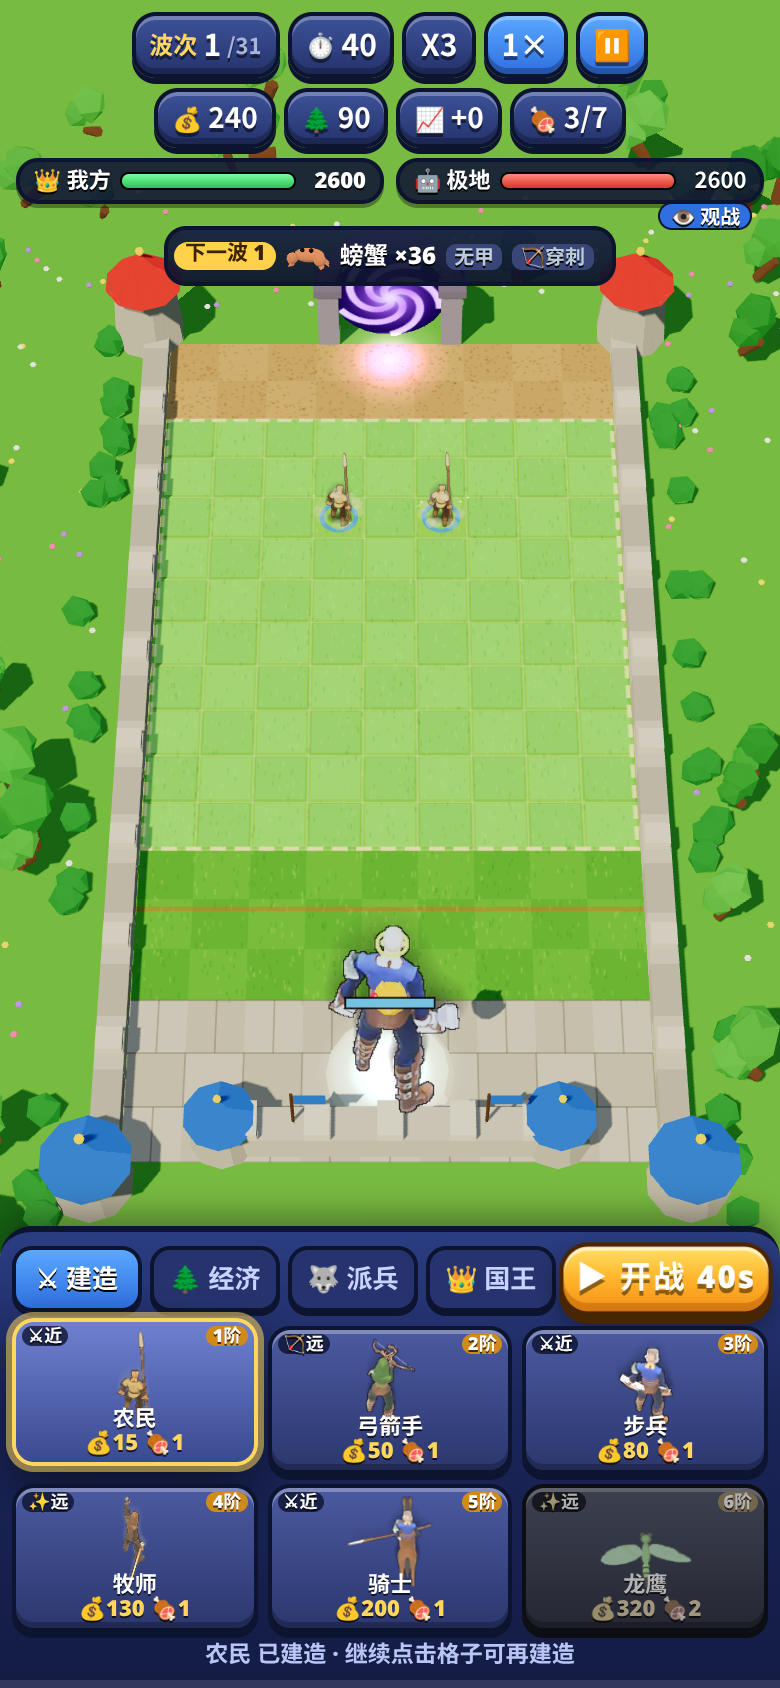
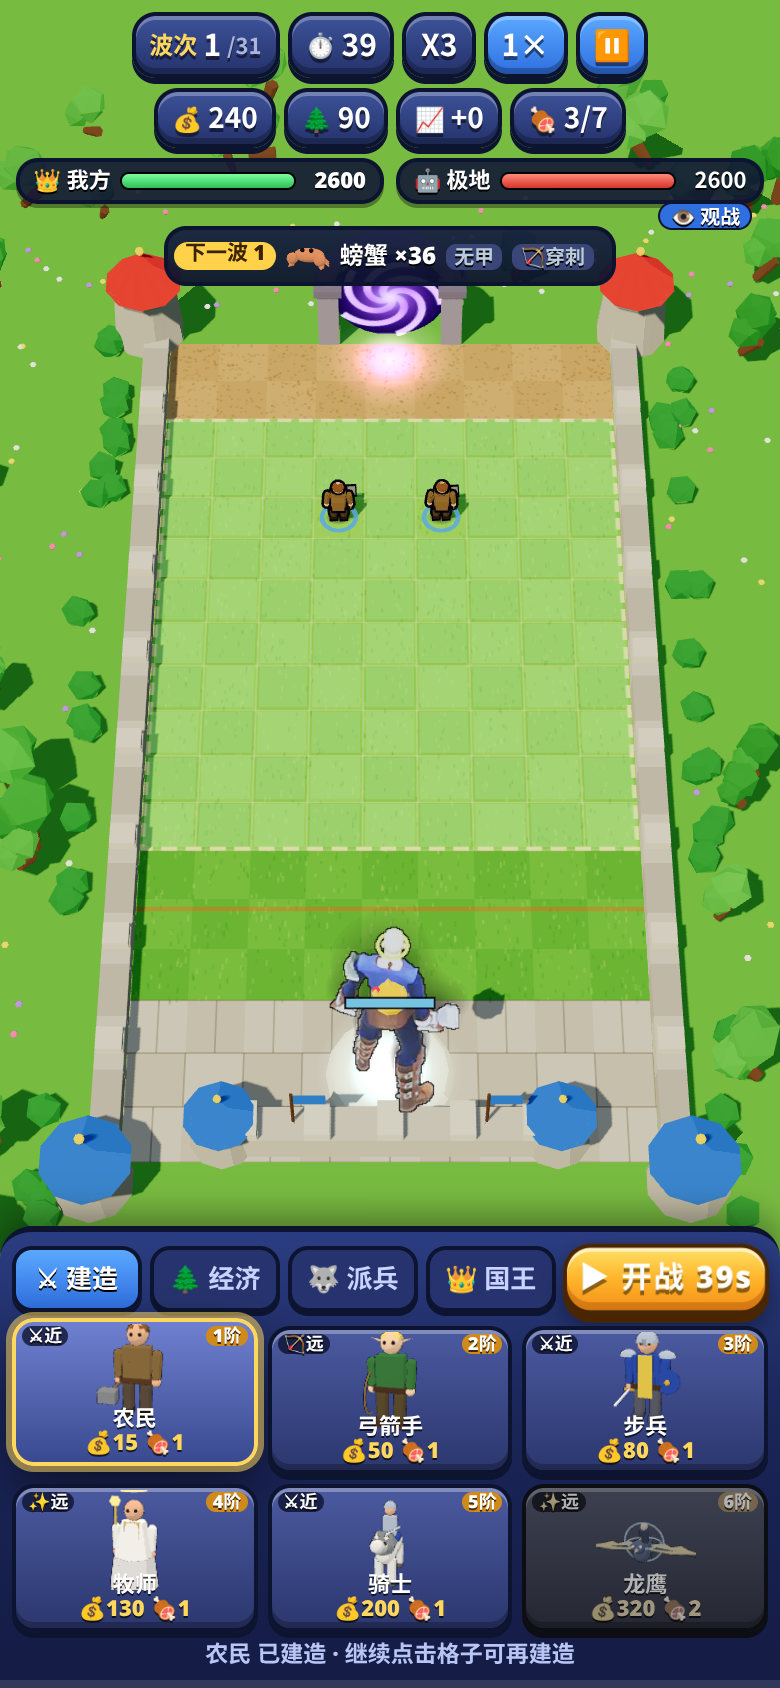
Model remake: Paladin (peasant, militia, archers, footman, guard, priests, knights, dragonhawk rider, gryphon rider)

diff --git a/toonrecipes.js b/toonrecipes.js
@@ -148,3 +148,16 @@ R('h01L',{k:1.3,h:1.2,bw:1.55,torso:'rock',head:'default',headS:0.9,skin:0x9a8a6
 R('h0AE',{k:0.88,h:0.85,bw:1.05,torso:'robe',head:'beast',headC:0x9a6a4a,skin:0x9a6a4a,torsoC:0x6a5a8a,eye:0xffd02a,helm:'cap',capC:0xe8d8a0,weapon:'staff',wood:0x6a4a2a,glow:0xffa02a,atk:'cast',extras:['tail:0x9a6a4a','candle','orbit:0xffb04a']});
 R('h0AL',{k:1.05,h:1.08,bw:1.45,torso:'brute',head:'beast',headC:0xb8785a,skin:0xb8785a,torsoC:0x6a4a8a,legC:0x4a3a2a,sleeve:0xb8785a,handC:0xa8684a,eye:0xffe04a,weapon:'hammer',wood:0x6a4a2a,wMetal:0x8a8a90,off:'orb',glow:0xffd04a,atk:'slam',extras:['tusks','goblinrider','tanks:0xffd04a','belly:0xc8886a']});
 R('h0AO',{k:1.02,h:1.15,bw:1.5,torso:'brute',head:'robot',legs:'robot',arms:'robot',metal:0x7a7a84,torsoC:0x6a6a74,eye:0xff8a2a,core:0xff8a2a,weapon:'glowfist',off:'glowfist',glow:0xff7a2a,pads:true,padC:0x5a5a64,atk:'slam',extras:['chest:0xff7a2a','jets','spikes:0x9a9aa4']});
+// ===================== 圣骑士 Paladin：人类王国（农民→民兵、弓手、步兵、牧师、骑士、龙鹰、狮鹫骑士） =====================
+R('h09L',{k:0.88,h:0.95,torso:'default',head:'default',skin:0xf0b890,hair:0x8a5a2a,torsoC:0x8a6a3a,legC:0x5a4a3a,bootC:0x3a2a1a,beltC:0x5a3a20,weapon:'hammer',wood:0x8a6a3a,wMetal:0x8a8a8a,atk:'swing',extras:['backpack:0x8a6a3a']});
+R('h09H',{k:1.0,h:1.0,torso:'default',head:'default',helm:'helm',metal:0x9a9aa4,skin:0xf0b890,torsoC:0x3a5aa8,legC:0x5a4a3a,bootC:0x3a2a1a,weapon:'axe',wMetal:0xb0b0b8,off:'shield',shieldC:0x3a5aa8,atk:'swing',extras:['tabard:0xe8e0c8']});
+R('h09W',{k:0.95,h:1.0,torso:'default',head:'default',skin:0xf8d0a8,hair:0xf0d870,torsoC:0x3a7a3a,legC:0x5a4a2a,bootC:0x4a3020,weapon:'bow',wood:0x8a6a3a,atk:'shoot',extras:['ears','quiver']});
+R('h09M',{k:1.12,h:1.05,torso:'default',head:'default',helm:'hood',hoodC:0x3a5a2a,skin:0xf8d0a8,torsoC:0x2a3a2a,legC:0x2a2a2a,bootC:0x1a1a1a,weapon:'bow',wood:0x5a3a6a,glow:0x9ad8ff,pads:true,padC:0xc8b060,atk:'shoot',extras:['ears','quiver','cape:0x2a4a2a','orbit:0x9ad8ff']});
+R('h09N',{k:0.98,h:1.0,torso:'default',head:'default',helm:'helm',metal:0xb8c0cc,skin:0xf0b890,torsoC:0x2a4aa8,legC:0x5a5a64,bootC:0x4a4a54,weapon:'sword',wMetal:0xe0e6f0,off:'shield',shieldC:0x2a4aa8,pads:true,padC:0xb8c0cc,atk:'swing',extras:['tabard:0xe8c84a']});
+R('h09O',{k:1.15,h:1.1,bw:1.15,torso:'default',head:'default',helm:'greathelm',metal:0xd8dde8,accent:0xffd04a,skin:0xf0b890,torsoC:0x2a4aa8,legC:0x8a8a94,bootC:0x6a6a74,weapon:'sword',wMetal:0xffffff,off:'towershield',shieldC:0x2a4aa8,pads:true,padC:0xffd04a,atk:'swing',extras:['plate:0xd8dde8','cape:0x2a3a8a','tabard:0xffd04a']});
+R('h09R',{k:1.0,h:1.02,torso:'robe',head:'default',helm:'hood',hoodC:0xe8e0d0,skin:0xf0b890,torsoC:0xf4f0e8,weapon:'staff',wood:0xd8b860,glow:0xfff0a0,atk:'cast',extras:['tabard:0xd8b860','halo:0xfff0a0']});
+R('h09S',{k:1.15,h:1.08,torso:'robe',head:'default',helm:'wizard',capC:0x3a2a8a,skin:0xf0b890,torsoC:0x4a3aa8,beard:0xf0f0f0,weapon:'staff',off:'book',bookC:0x8a2a2a,wood:0xd8b860,glow:0xfff0a0,atk:'cast',extras:['beard:0xf8f8f8','tabard:0xffd04a','aura:0xfff0a0','orbit:0xffe08a']});
+R('h09T',{k:1.1,plan:'quad',skin:0xe8e4dc,skin2:0xc8c4bc,headType:'horse',eye:0x2a2a2a,pawC:0x5a5a5a,legLen:0.36,bodyLen:0.66,mane:true,maneC:0x8a8a8a,tailLen:0.32,tailC:0x8a8a8a,saddle:0x2a4aa8,rider:0xb8c0cc,riderSkin:0xf0b890,riderHelm:0xb8c0cc,lance:0xe0e6f0,atk:'bite'});
+R('h09U',{k:1.25,plan:'quad',skin:0x3a3a40,skin2:0x5a5a64,headType:'horse',eye:0xffe04a,pawC:0x2a2a2a,legLen:0.38,bodyLen:0.7,mane:true,maneC:0xd8d8d8,tailLen:0.34,tailC:0xd8d8d8,saddle:0xc8302a,rider:0xffd04a,riderSkin:0xf0b890,riderHelm:0xffd04a,lance:0xffffff,spikes:true,spikeC:0xffd04a,atk:'bite',extras:['aura:0xfff0a0']});
+R('h0A3',{k:1.0,plan:'flyer',headType:'bird',skin:0x3a6ad8,skin2:0xf0e0a0,headC:0x4a7ae8,wing:'bat',wingC:0xf0c84a,beak:0xf0d060,eye:0xffffff,crest:0xffd04a,neckLen:0.8,tailLen:0.6,wingSpan:1.0,alt:0.45,rider:0x2a4aa8,riderSkin:0xf8d0a8,atk:'shoot',extras:['rings:0x9ad8ff']});
+R('h0A0',{k:1.12,plan:'flyer',headType:'bird',skin:0xc8a060,skin2:0xf8f0e0,headC:0xf8f8f0,wing:'bird',wingC:0xf0e8d8,beak:0xf0c040,eye:0x2a2a2a,neckLen:0.45,headS:1.3,tailLen:0.35,wingSpan:1.1,alt:0.42,rider:0x8a8a94,riderSkin:0xf0b890,atk:'dive',extras:['crest:0xffd04a','aura:0xfff0a0']});

diff --git a/index.html b/index.html
@@ -10,9 +10,9 @@
 <link rel="manifest" href="manifest.webmanifest">
 <link rel="icon" type="image/png" href="icons/favicon-32.png">
 <link rel="apple-touch-icon" href="icons/apple-touch-icon.png">
-<link rel="stylesheet" href="style.css?v=13">
-<link rel="stylesheet" href="td.css?v=13">
-<link rel="stylesheet" href="lt.css?v=13">
+<link rel="stylesheet" href="style.css?v=14">
+<link rel="stylesheet" href="td.css?v=14">
+<link rel="stylesheet" href="lt.css?v=14">
 </head>
 <body class="td lt">
 <canvas id="cv"></canvas>
@@ -75,8 +75,8 @@
 </div>
 <div id="showTitle" class="hidden"></div>
 <script src="audio.js?v=1"></script>
-<script src="lt_core.js?v=13"></script>
+<script src="lt_core.js?v=14"></script>
 <script type="importmap">{"imports":{"three":"./lib/three.module.min.js","three/addons/":"./lib/addons/"}}</script>
-<script type="module" src="lt.js?v=13"></script>
+<script type="module" src="lt.js?v=14"></script>
 </body>
 </html>

diff --git a/lt.js b/lt.js
@@ -3,8 +3,8 @@ import * as THREE from 'three';
 import {SPR_UNITS,SPR_K,SPR_V} from './sprdata.js';
 import {MODELS,modelOf} from './models.js';
 import {ABZ as ABZ_} from './abil_zh.js';
-import {initTK,buildTK,animTK} from './toonkit.js?v=13';
-import {TKR} from './toonrecipes.js?v=13';
+import {initTK,buildTK,animTK} from './toonkit.js?v=14';
+import {TKR} from './toonrecipes.js?v=14';
 const LT=window.LT,S=SFX.S,$=id=>document.getElementById(id);
 const Q=location.search;const DEBUG=/[?&]debug/.test(Q);const SHOWCASE=(Q.match(/[?&]showcase=([^&]+)/)||[])[1];
 const W=LT.W,H=LT.H,W2=W/2,H2=H/2;const B=LT.BUILD;

diff --git a/data/model_audit.md b/data/model_audit.md
@@ -34,7 +34,7 @@
 | Arctic 极地 | 12 | 2.00 | 2 | 12 |
 | Elf 精灵 | 13 | 1.85 | 2 | 13 |
 | Goblin 地精 | 13 | 1.15 | 0 | 3 |
-| Paladin 圣骑士 | 12 | 1.25 | 0 | 0 |
+| Paladin 圣骑士 | 12 | 1.25 | 0 | 12 |
 | Orc 兽人 | 13 | 1.54 | 2 | 13 |
 | Undead 亡灵 | 13 | 1.31 | 1 | 0 |
 
@@ -258,18 +258,18 @@
 
 | id | 兵种 | WC3 模型 | 旧资源 | 旧资源符合度 | 处理 |
 |---|---|---|---|---|---|
-| h09L | Peasant 农民 | Peasant | 精灵 pikeman | ✅ 基本相符 | 保留，后续统一换 ToonKit 时顺带做 |
-| h09H | Militia 民兵 | Militia | 精灵 halberdier | ✅ 基本相符 | 保留，后续统一换 ToonKit 时顺带做 |
-| h09W | Archer 弓箭手 | HighElfArcher | 精灵 archer | ✅ 基本相符 | 保留，后续统一换 ToonKit 时顺带做 |
-| h09M | Elite Archer 神弓 | SylvanusWindrunner | 精灵 marksman | ⚠ 部分不符 | ToonKit 程序化重做（按 WC3 轮廓/配色） |
-| h09N | Footman 步兵 | Footman | 精灵 swordsman | ✅ 基本相符 | 保留，后续统一换 ToonKit 时顺带做 |
-| h09O | Guard 近卫军 | TheCaptain | 精灵 crusader | ✅ 基本相符 | 保留，后续统一换 ToonKit 时顺带做 |
-| h09R | Priest 牧师 | Priest_V1 | 精灵 monk | ✅ 基本相符 | 保留，后续统一换 ToonKit 时顺带做 |
-| h09S | High Priest 高阶牧师 | HumanMage | 精灵 monk | ⚠ 部分不符 | ToonKit 程序化重做（按 WC3 轮廓/配色） |
-| h09T | Knight 骑士 | Knight | 精灵 cavalier | ✅ 基本相符 | 保留，后续统一换 ToonKit 时顺带做 |
-| h09U | Cavalier 骑兵统帅 | LordGarithos | 精灵 champion | ✅ 基本相符 | 保留，后续统一换 ToonKit 时顺带做 |
-| h0A3 | Dragon Hawk 龙鹰 | WindSerpent | 精灵 serpentFly | ✅ 基本相符 | 保留，后续统一换 ToonKit 时顺带做 |
-| h0A0 | Royal Griffin 皇家狮鹫 | GryphonRider | 精灵 royalGriffin | ⚠ 部分不符 | ToonKit 程序化重做（按 WC3 轮廓/配色） |
+| h09L | Peasant 农民 | Peasant | 精灵 pikeman | ✅ 基本相符 | **已重做**：ToonKit 程序化卡通模型（humanoid） |
+| h09H | Militia 民兵 | Militia | 精灵 halberdier | ✅ 基本相符 | **已重做**：ToonKit 程序化卡通模型（humanoid） |
+| h09W | Archer 弓箭手 | HighElfArcher | 精灵 archer | ✅ 基本相符 | **已重做**：ToonKit 程序化卡通模型（humanoid） |
+| h09M | Elite Archer 神弓 | SylvanusWindrunner | 精灵 marksman | ⚠ 部分不符 | **已重做**：ToonKit 程序化卡通模型（humanoid） |
+| h09N | Footman 步兵 | Footman | 精灵 swordsman | ✅ 基本相符 | **已重做**：ToonKit 程序化卡通模型（humanoid） |
+| h09O | Guard 近卫军 | TheCaptain | 精灵 crusader | ✅ 基本相符 | **已重做**：ToonKit 程序化卡通模型（humanoid） |
+| h09R | Priest 牧师 | Priest_V1 | 精灵 monk | ✅ 基本相符 | **已重做**：ToonKit 程序化卡通模型（humanoid） |
+| h09S | High Priest 高阶牧师 | HumanMage | 精灵 monk | ⚠ 部分不符 | **已重做**：ToonKit 程序化卡通模型（humanoid） |
+| h09T | Knight 骑士 | Knight | 精灵 cavalier | ✅ 基本相符 | **已重做**：ToonKit 程序化卡通模型（quad） |
+| h09U | Cavalier 骑兵统帅 | LordGarithos | 精灵 champion | ✅ 基本相符 | **已重做**：ToonKit 程序化卡通模型（quad） |
+| h0A3 | Dragon Hawk 龙鹰 | WindSerpent | 精灵 serpentFly | ✅ 基本相符 | **已重做**：ToonKit 程序化卡通模型（flyer） |
+| h0A0 | Royal Griffin 皇家狮鹫 | GryphonRider | 精灵 royalGriffin | ⚠ 部分不符 | **已重做**：ToonKit 程序化卡通模型（flyer） |
 
 ## Goblin 地精
 
